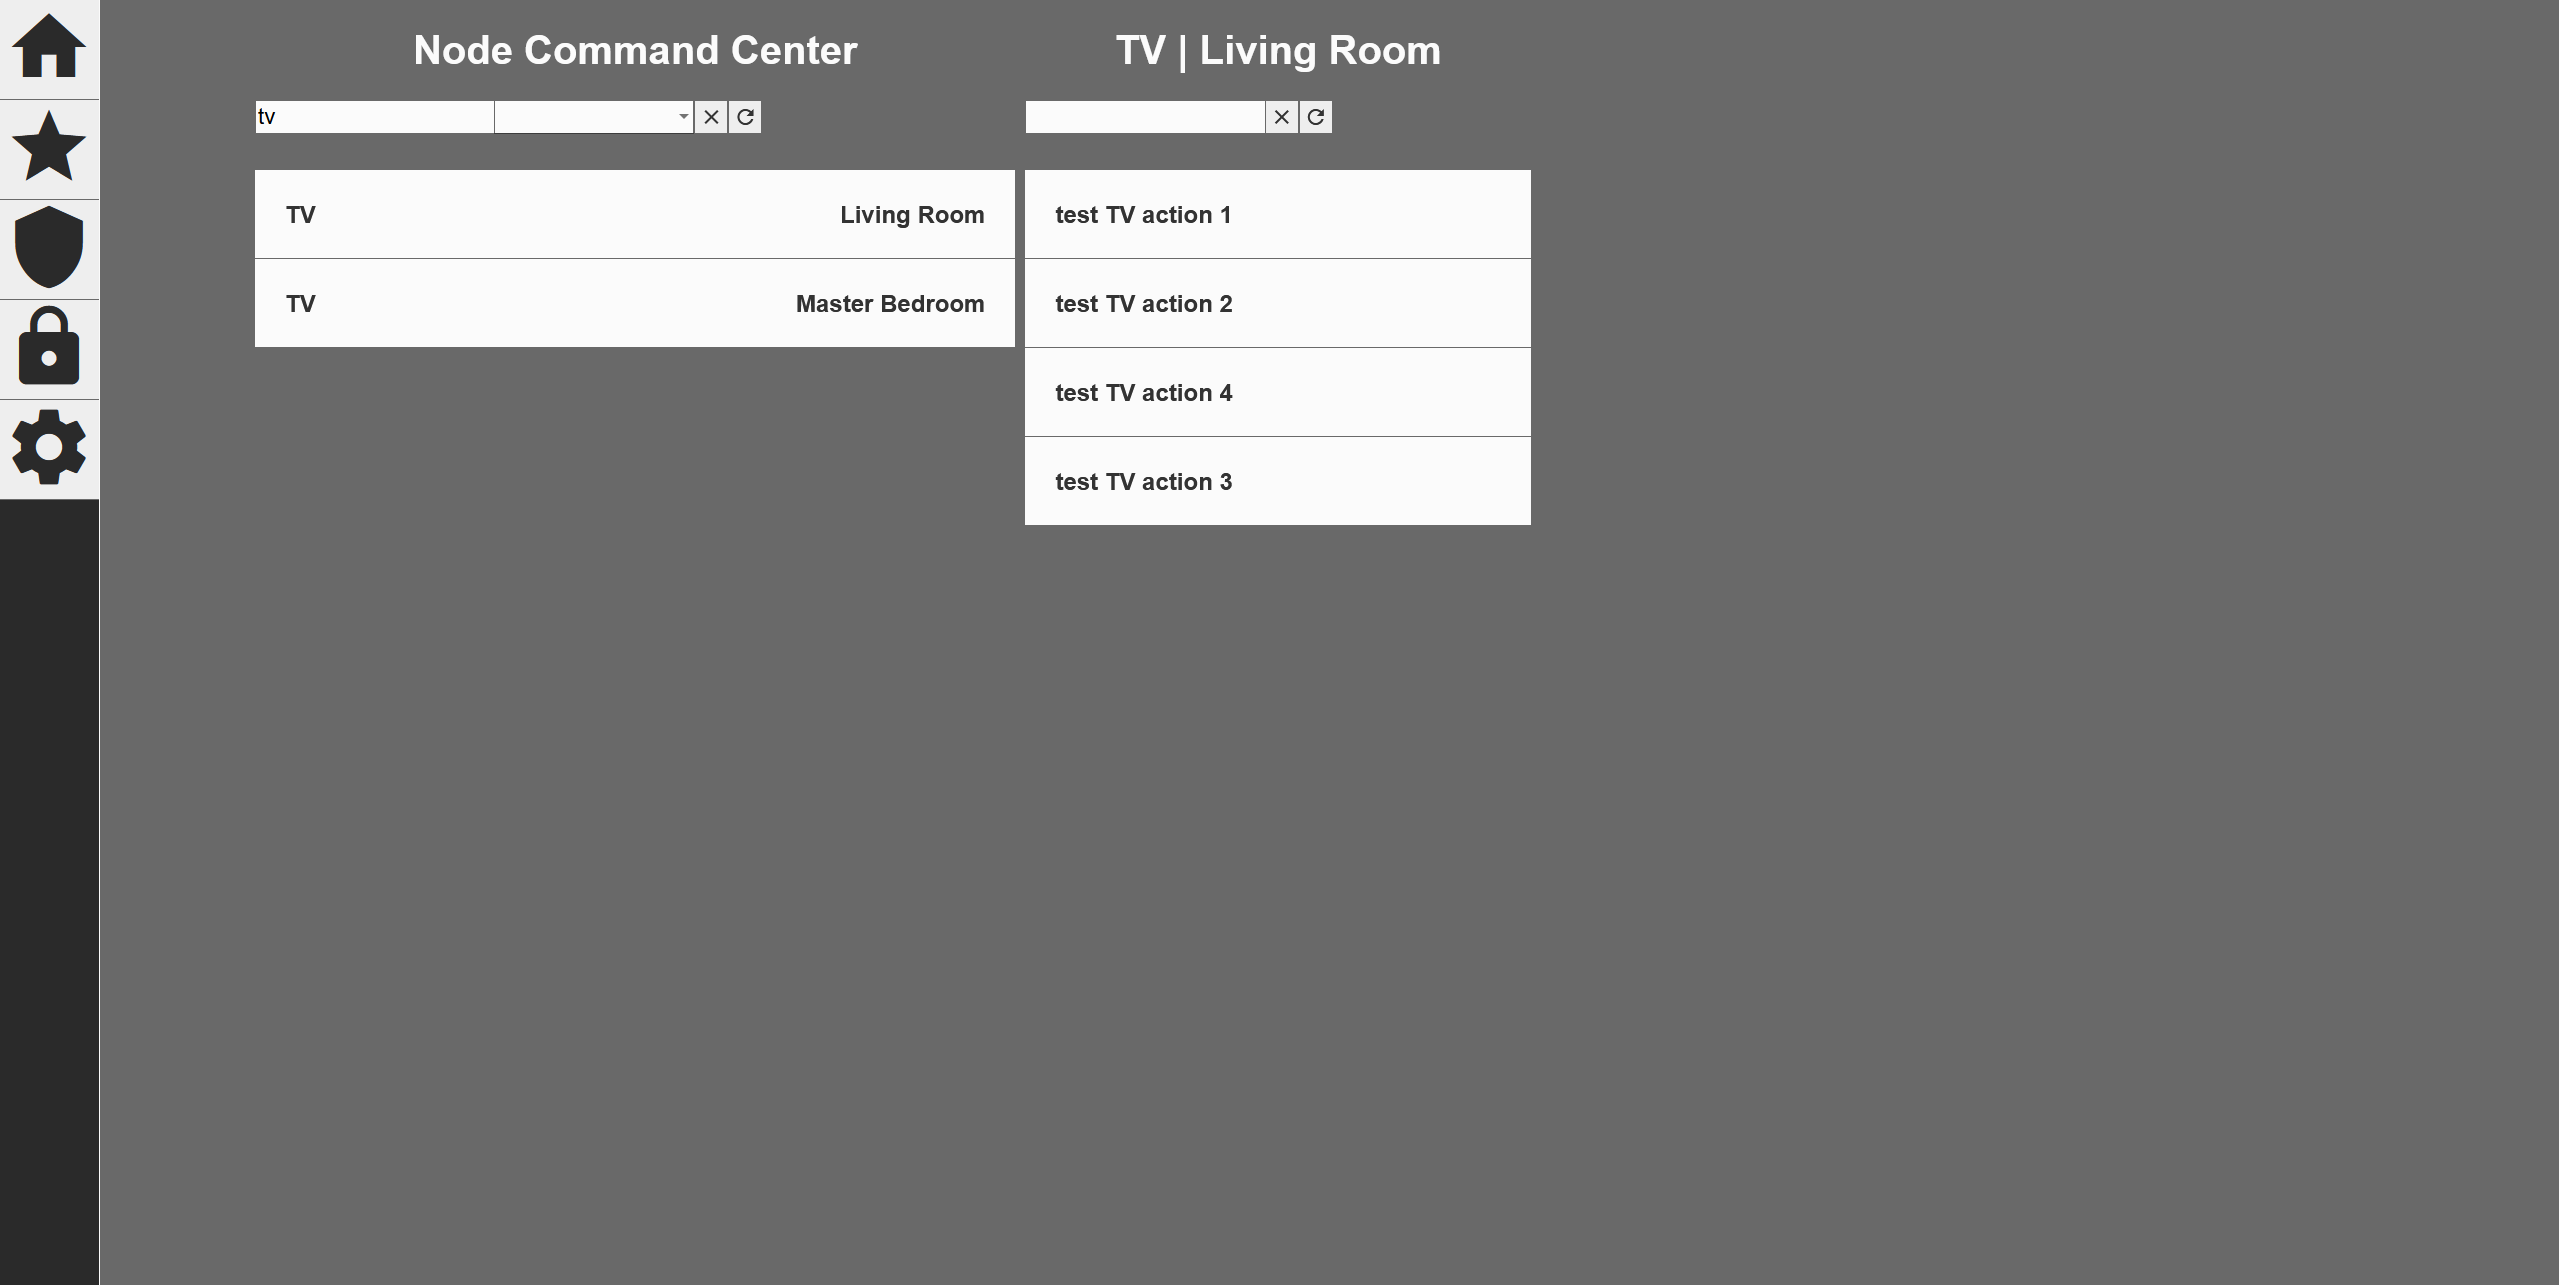
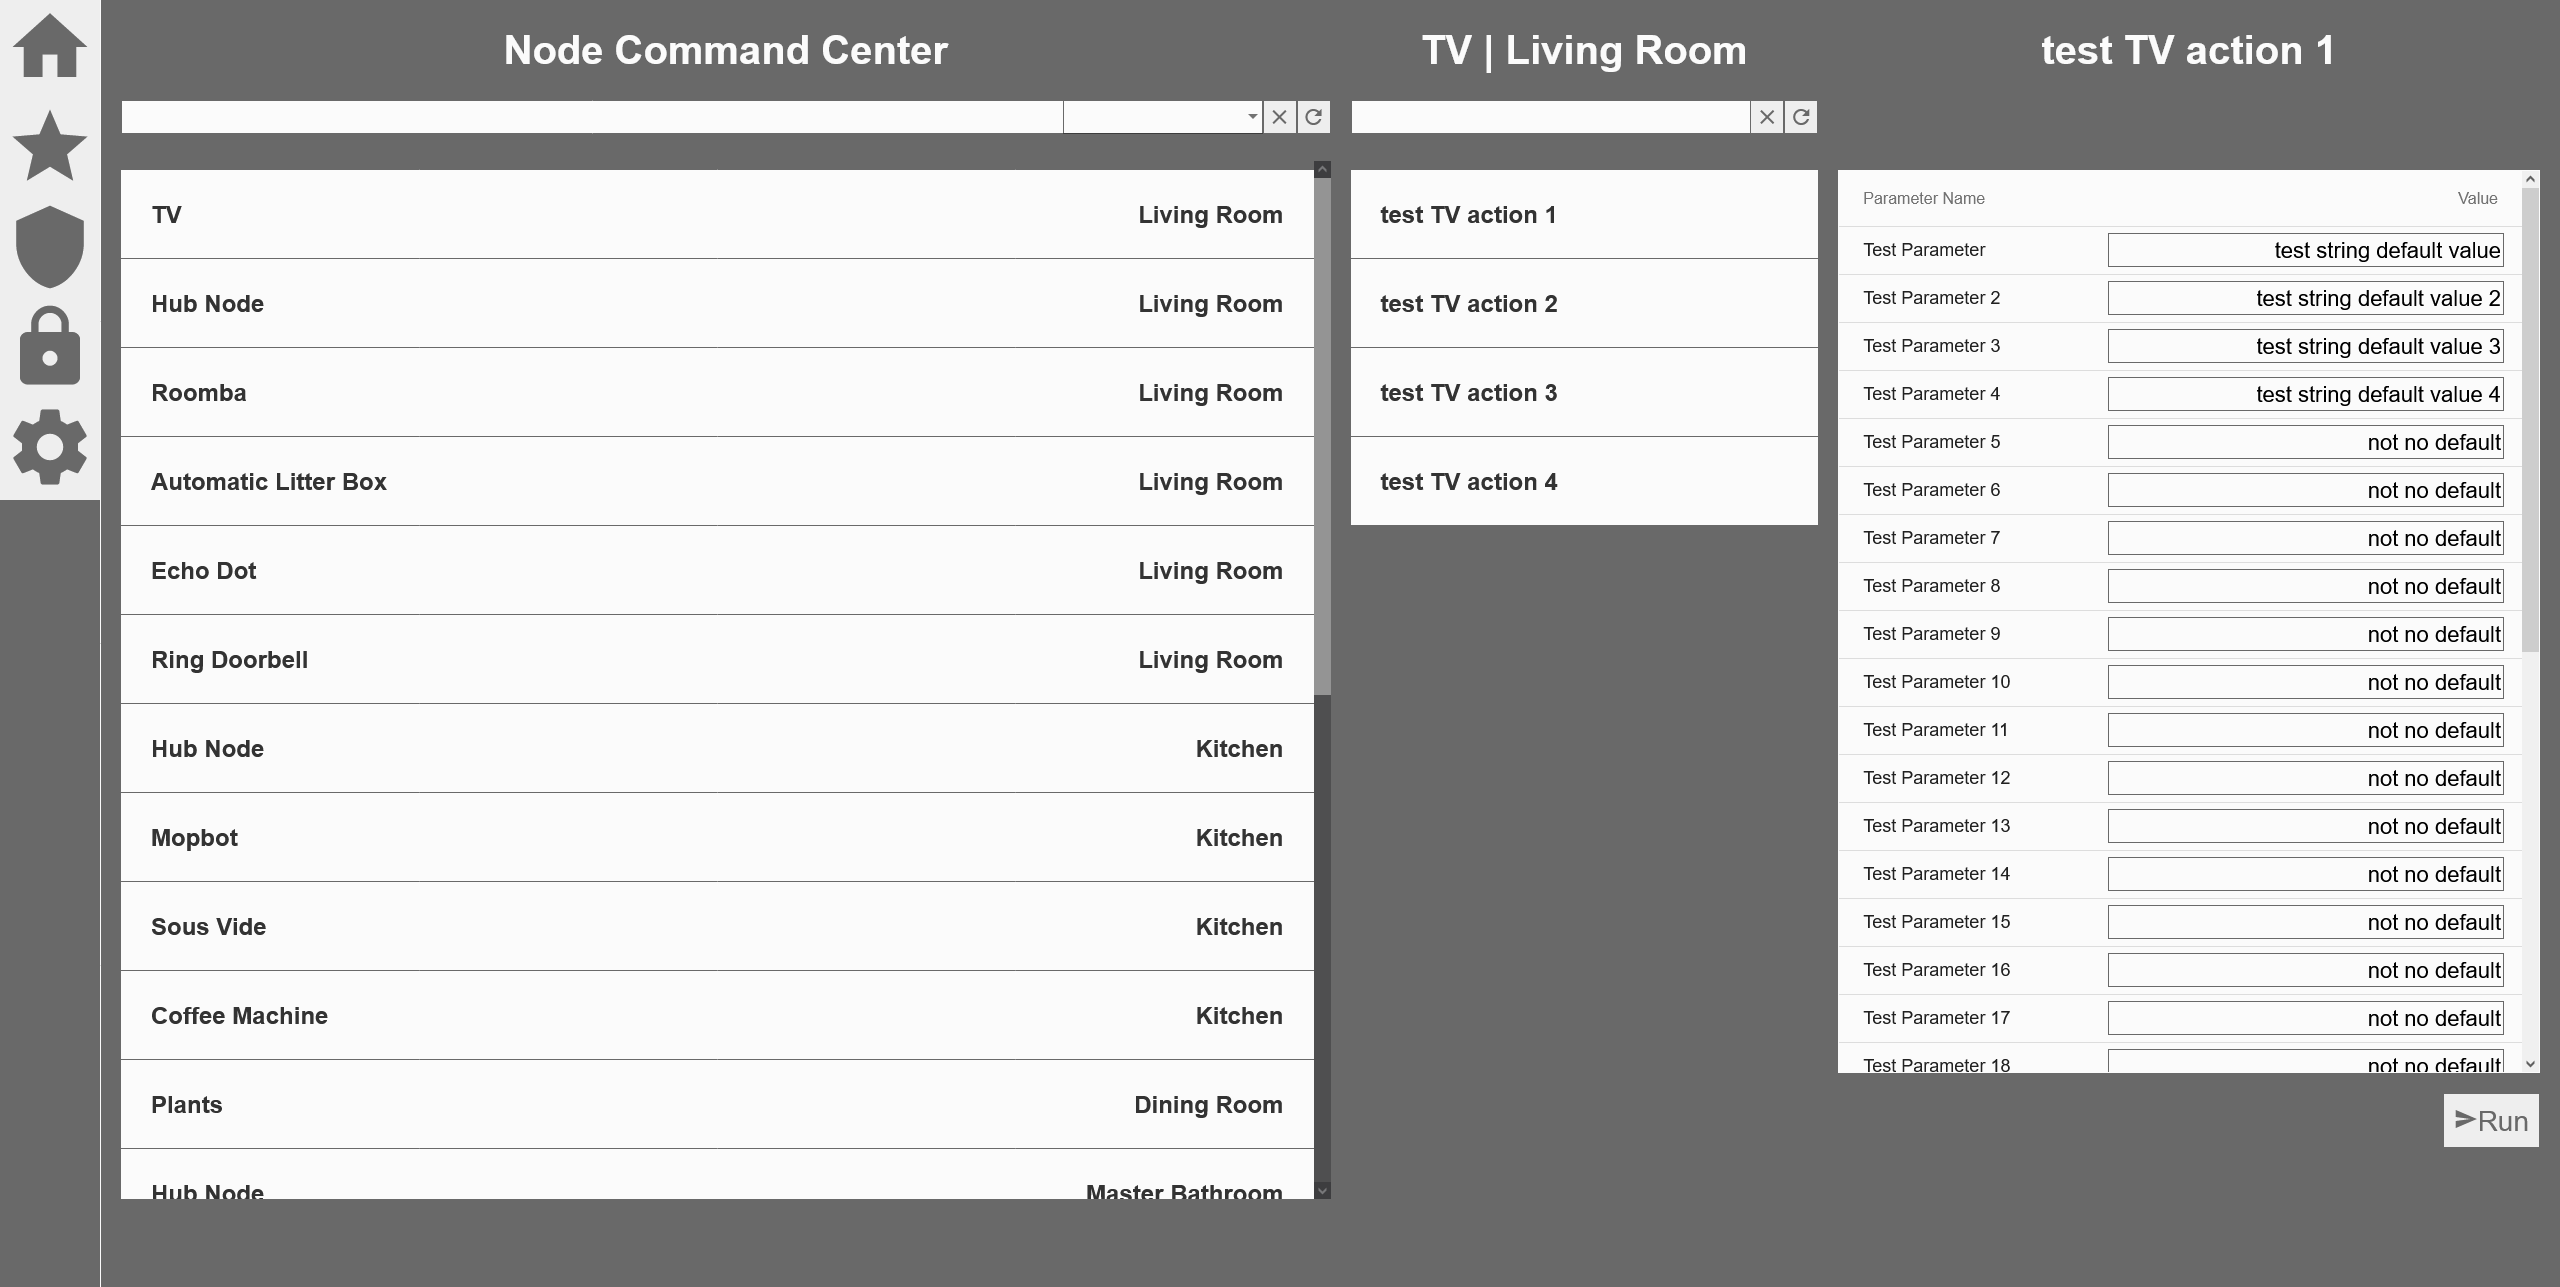
added action parameter list; only supports string values so far

diff --git a/node-ui/src/styles.css b/node-ui/src/styles.css
@@ -1,4 +1,3 @@
-/* Application-wide Styles */
 h1 {
   color: black;
   font-family: Arial, Helvetica, sans-serif;
@@ -6,7 +5,7 @@ h1 {
 }
 
 h2, h3 {
-  color: black;
+  color: #fbfbfb;
   font-family: Arial, Helvetica, sans-serif;
   font-weight: lighter;
 }
@@ -37,6 +36,7 @@ body { margin: 0; font-family: Roboto, "Helvetica Neue", sans-serif; }
 .blade-header {
   text-align: center;
   color: #fbfbfb;
+  white-space: nowrap;
 }
 
 .top-mgt > div.mat-grid-tile-content {
@@ -94,7 +94,7 @@ span.mat-select-min-line {
 .list-item:hover {
   transition: all .2s ease;
   background-color: dimgrey;
-  color: white;
+  color: #fbfbfb;
 }
 
 .list-item:active {
@@ -102,7 +102,7 @@ span.mat-select-min-line {
   background-color: #0a0a0a;
 }
 
-.searchbar {
+input {
   height: 30px;
   font-size: 22px;
   background-color: #fbfbfb;
@@ -111,18 +111,26 @@ span.mat-select-min-line {
   border-top: 1px solid dimgrey;
   border-left: 1px solid dimgrey;
   border-bottom: 1px solid dimgrey;
-  border-right: none;
+  border-right: 1px solid dimgrey;
 
   margin-bottom: 1.25em;
 
   vertical-align: top;
 }
 
-.searchbar:focus {
+input:focus {
   outline: none;
   border-top: 1px solid dimgrey;
   border-left: 1px solid dimgrey;
   border-bottom: 1px solid dimgrey;
+  border-right: 1px solid dimgrey;
+}
+
+.searchbar {
+  border-right: none;
+}
+
+.searchbar:focus {
   border-right: none
 }
 
@@ -132,12 +140,21 @@ span.mat-select-min-line {
   background-color: #eeeeee;
   border: 1px solid dimgrey;
   float: left;
+  color: dimgrey;
 
   vertical-align: top;
 }
 
 .mdc-icon-button:hover {
+  transition: all .2s ease;
   background-color: #aaaaaa;
+  color: #fbfbfb;
+}
+
+.mdc-icon-button:active {
+  transition: all .2s ease;
+  background-color: #0a0a0a;
+  color: #fbfbfb;
 }
 
 .left-blade {
@@ -182,4 +199,28 @@ span.mat-select-min-line {
 
 .right-fixed {
   flex: none;
+}
+
+.vertical-center {
+  margin: 0;
+  top: 50%;
+}
+
+input:-webkit-autofill,
+input:-webkit-autofill:hover,
+input:-webkit-autofill:focus
+input:-webkit-autofill,
+textarea:-webkit-autofill,
+textarea:-webkit-autofill:hover,
+textarea:-webkit-autofill:focus,
+select:-webkit-autofill,
+select:-webkit-autofill:hover,
+select:-webkit-autofill:focus {
+   -webkit-box-shadow: 0 0 0px 1000px #fbfbfb inset!important;
+}
+
+input:focus,
+input:-webkit-autofill:focus {
+    -webkit-box-shadow: 0 0 0px 1000px #fbfbfb inset,
+                        0 0 8px #cbcbcbcb;
 }

diff --git a/node-ui/src/app/action/action.component.html b/node-ui/src/app/action/action.component.html
@@ -1,1 +1,27 @@
-<p>action works!</p>
+<div class="action-param-container">
+  <h1 class="blade-header">{{ nodeAction?.name }}</h1>
+  <div *ngIf="nodeAction && nodeAction.parameters && nodeAction.parameters.length > 0;else placeholder" class="action-param-table-container">
+    <table mat-table [dataSource]="nodeAction.parameters">
+      <ng-container matColumnDef="name">
+        <th mat-header-cell *matHeaderCellDef style="text-align:left;" class="column-header">Parameter Name</th>
+        <td mat-cell *matCellDef="let param" class="action-param-label">{{ param.name }}</td>
+      </ng-container>
+      <ng-container matColumnDef="currentValue">
+        <th mat-header-cell *matHeaderCellDef style="text-align:right;" class="column-header">Value</th>
+        <td mat-cell *matCellDef="let param">
+          <input class="left-fill vertical-center action-param-input" *ngIf="isParamTextField(param)" matInput [(ngModel)]="param.currentValue">
+        </td>
+      </ng-container>
+      <tr mat-header-row *matHeaderRowDef="displayedColumns; sticky: true"></tr>
+      <tr mat-row *matRowDef="let row; columns: displayedColumns;"></tr>
+    </table>
+  </div>
+  <ng-template #placeholder>
+    <h3>This action doesn't accept parameters.</h3>
+  </ng-template>
+  <div style="float:right;padding-top:20px;">
+    <button mat-flat-button (click)="runActionWithParams()" class="mdc-icon-button run-button">
+      <span class="material-icons">send</span><span>Run</span>
+    </button>
+  </div>
+</div>

diff --git a/node-ui/src/app/services/auth-interceptor.service.ts b/node-ui/src/app/services/auth-interceptor.service.ts
@@ -1,6 +1,8 @@
 import { Injectable } from '@angular/core';
 import { HttpRequest, HttpHandler, HttpEvent, HttpInterceptor } from '@angular/common/http';
 
+import { CookieService } from 'ngx-cookie-service';
+
 import { Observable } from 'rxjs';
 
 import { UserProviderService } from './user-provider.service';
@@ -9,11 +11,10 @@ import { UserProviderService } from './user-provider.service';
   providedIn: 'root'
 })
 export class AuthInterceptorService implements HttpInterceptor {
-  constructor(private userProvider: UserProviderService) { }
+  constructor(private userProvider: UserProviderService, private cookieService: CookieService) { }
 
   intercept(request: HttpRequest<any>, next: HttpHandler): Observable<HttpEvent<any>> {
-    const jwt = this.userProvider.getJwt();
-    console.log('intercepting and setting authorization header');
+    const jwt = this.cookieService.get('bearer');
     if (jwt && !this.isJwtExpired(jwt)) {
       request = request.clone({
         setHeaders: {
@@ -26,7 +27,6 @@ export class AuthInterceptorService implements HttpInterceptor {
 
   isJwtExpired(jwt: string): boolean {
     const expiry = (JSON.parse(atob(jwt.split('.')[1]))).exp;
-    console.log((Math.floor((new Date).getTime() / 1000)) + '>=' + expiry);
     return (Math.floor((new Date).getTime() / 1000)) >= expiry;
   }
 }

diff --git a/node-ui/src/app/action/action.component.ts b/node-ui/src/app/action/action.component.ts
@@ -1,5 +1,6 @@
 import { Component, OnInit, Input } from '@angular/core';
 import { NodeAction } from '../models/node-action';
+import { ActionParameter } from '../models/action-parameter';
 
 @Component({
   selector: 'app-action',
@@ -7,10 +8,13 @@ import { NodeAction } from '../models/node-action';
   styleUrls: ['./action.component.css']
 })
 export class ActionComponent implements OnInit {
+  displayedColumns: string[] = ['name', 'currentValue'];
+
   nodeAction?: NodeAction;
 
   @Input('setAction')
   public set setAction(nodeAction: NodeAction | undefined) {
+    console.log(JSON.stringify(nodeAction));
     this.nodeAction = nodeAction;
     this.refresh();
   }
@@ -18,8 +22,22 @@ export class ActionComponent implements OnInit {
   constructor() { }
 
   refresh(): void {
+    this.nodeAction?.parameters.forEach(param => param.currentValue = param.defaultValue);
   }
 
   ngOnInit(): void {
+  }
+
+  omitSpecialChar(event: any) {
+    let k = event.charCode;
+    return((k > 64 && k < 91) || (k > 96 && k < 123) || k == 8 || k == 32 || (k >= 48 && k <= 57));
+  }
+
+  isParamTextField(param: ActionParameter): boolean {
+    return param.type === 'string';
+  }
+
+  runActionWithParams(): void {
+
   }
 }

diff --git a/node-ui/src/app/app.component.css b/node-ui/src/app/app.component.css
@@ -3,17 +3,17 @@
   width: 100px;
   height: 100%;
   background-color: dimgrey;
-  border-right: 1px solid #0b0b0b;
-  margin-right: 20px;
+  border-right: 1px solid #fbfbfb;
 }
 
 .app-selector {
   font-size: 90px;
-  color: dimgrey;
 }
 
 .inner-blade-container {
   height: 100%;
+  padding-left: 20px;
+  padding-right: 20px;
   overflow: hidden;
 }
 
@@ -22,10 +22,17 @@
   height: 100px;
   background-color: #eeeeee;
   border: none;
+  color: dimgrey;
 }
 
 .mdc-icon-button:hover {
   transition: all .2s ease;
   background-color: #aaaaaa;
-  border: none;
+  color: #fbfbfb;
+}
+
+.mdc-icon-button:active {
+  transition: all .2s ease;
+  background-color: #0a0a0a;
+  color: #fbfbfb;
 }

diff --git a/node-ui/src/app/action/action.component.css b/node-ui/src/app/action/action.component.css
@@ -1,0 +1,48 @@
+.action-param-container {
+  margin-left: 20px;
+
+  width: 100%;
+  height: 100%;
+}
+
+.action-param-table-container {
+  margin: auto;
+  margin-top: 97px;
+  border: 1px solid #fbfbfb;
+  background-color: #fbfbfb;
+  max-height: 70vh;
+  overflow-y: auto;
+}
+
+.column-header {
+  font-size: 16px;
+}
+
+.action-param-label {
+  font-size: 18px;
+}
+
+.action-param-input {
+  text-align: right;
+}
+
+table {
+  width: 100%;
+}
+
+.mat-table {
+  height: 100%;
+  background-color: #fbfbfb;
+}
+
+.mat-row {
+  background-color: #fbfbfb;
+}
+
+.run-button {
+  width: auto;
+  height: auto;
+  padding: 10px 10px 10px 10px;
+  display: inline-block;
+  text-align: center;
+}

diff --git a/node-ui/src/app/app.module.ts b/node-ui/src/app/app.module.ts
@@ -7,6 +7,7 @@ import { HTTP_INTERCEPTORS, HttpClientModule } from '@angular/common/http';
 import { MatListModule } from '@angular/material/list';
 import { MatGridListModule } from '@angular/material/grid-list';
 import { MatSelectModule } from '@angular/material/select';
+import { MatTableModule } from '@angular/material/table';
 
 import { ToastrModule } from 'ngx-toastr';
 import { CookieService } from 'ngx-cookie-service';
@@ -44,6 +45,7 @@ import { AuthInterceptorService } from './services/auth-interceptor.service';
     MatListModule,
     MatGridListModule,
     MatSelectModule,
+    MatTableModule,
     ToastrModule.forRoot()
   ],
   providers: [

diff --git a/node-ui/src/app/node-action/node-action.component.html b/node-ui/src/app/node-action/node-action.component.html
@@ -1,4 +1,4 @@
-<div style="margin-left:10px;">
+<div style="margin-left:20px;margin-right:20px;">
   <div style="width:40%;float:left;">
     <h1 class="blade-header">{{ node?.name }} | {{ node?.room?.name }}</h1>
     <div class="left-fill-container">
@@ -22,8 +22,8 @@
     </div>
   </div>
   <div style="width:60%;float:right;">
-    <div *ngIf="activeAction != null">
-      <app-action [setAction]="activeAction"></app-action>
+    <div style="width:100%;height=100%;" *ngIf="activeAction != null">
+      <app-action style="display:block;" [setAction]="activeAction"></app-action>
     </div>
   </div>
 </div>

diff --git a/node-ui/src/app/home/home.component.css b/node-ui/src/app/home/home.component.css
@@ -2,10 +2,17 @@
   width: 100%;
   height: 40px;
 
+  background-color: #fbfbfb;
+
   font-size: 30px;
   padding: 0.2em;
   margin-bottom: 10px;
   box-sizing: border-box;
+}
+
+::ng-deep .mat-form-field-appearance-outline .mat-form-field-outline {
+  background-color: #601010;
+  border-radius: 5px;
 }
 
 .login-button {

diff --git a/node-ui/src/app/models/node-action.ts b/node-ui/src/app/models/node-action.ts
@@ -1,6 +1,9 @@
+import { ActionParameter } from './action-parameter';
+
 export interface NodeAction {
   actionSeq: number;
   name: string;
   ownerNodeSeq: number;
   handler: string;
+  parameters: ActionParameter[];
 }

diff --git a/node-ui/src/app/models/action-parameter.ts b/node-ui/src/app/models/action-parameter.ts
@@ -1,0 +1,7 @@
+export interface ActionParameter {
+  actionParameterSeq: number;
+  currentValue?: string;
+  defaultValue?: string;
+  type: string;
+  name: string;
+}

diff --git a/server/src/main/java/com/higgs/server/db/entity/ActionParameter.java b/server/src/main/java/com/higgs/server/db/entity/ActionParameter.java
@@ -17,6 +17,9 @@ public class ActionParameter {
     @Column(name = "ACTION_PARAMETER_SEQ")
     private Long actionParameterSeq;
 
+    @Column(name = "NAME")
+    private String name;
+
     @OneToOne
     @JoinColumn(name = "ACTION_SEQ")
     @JsonBackReference
